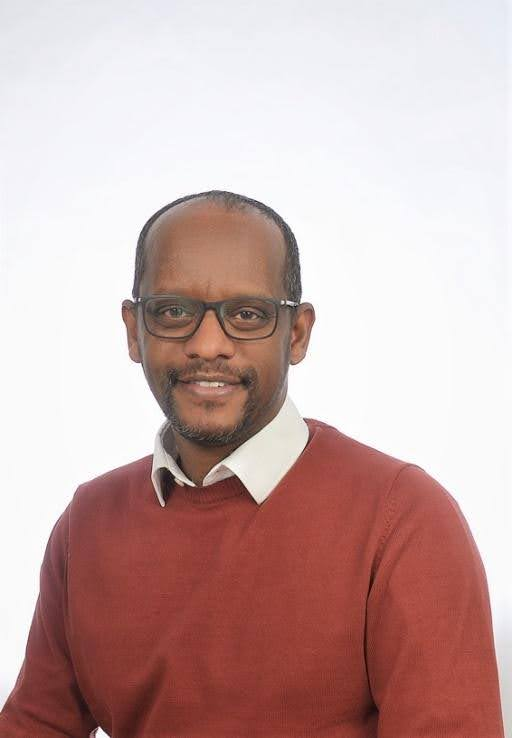
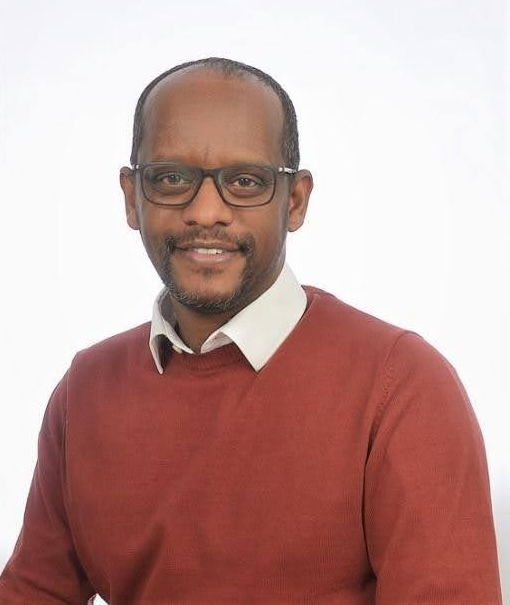
ammends

diff --git a/about.html b/about.html
@@ -301,7 +301,7 @@
 
                   <div class="team_description text-center">
                     <h4 class="team_name">
-                      Rose Gana Fomban Leke<br /><span
+                      Emeritus Professor Rose Gana Fomban Leke<br /><span
                         >Chair of the (MIM) Secretariat; Executive Director of
                         the Cameroon Coalition Against Malaria</span
                       >
@@ -325,7 +325,7 @@
 
                   <div class="team_description text-center">
                     <h4 class="team_name">
-                      Claude Mambo MUVUNYI<br /><span
+                      Prof. Claude Mambo MUVUNYI<br /><span
                         >Director General, RBC</span
                       >
                     </h4>
@@ -348,7 +348,7 @@
 
                   <div class="team_description text-center">
                     <h4 class="team_name">
-                      MBACHAM FON WILFRED
+                      HRH Prof. MBACHAM FON WILFRED
                       <br /><span
                         >Executive Director of the MIM Society; Founder of the
                         Fobang Institutes for Innovations in Science and
@@ -367,14 +367,14 @@
               <div class="col-lg-3 mt-5">
                 <div class="carousel_item">
                   <img
-                    src="lib/images/photos/kateesa.jpg"
+                    src="lib/images/photos/brenda.jpeg"
                     alt="Team Picture"
                     class="team_pic"
                   />
 
                   <div class="team_description text-center">
                     <h4 class="team_name">
-                      Brenda Asiimwe Kateera
+                      Dr. Brenda Asiimwe Kateera
 
                       <br /><span
                         >Country Director for Clinton Health Access Initiative
@@ -400,7 +400,7 @@
 
                   <div class="team_description text-center">
                     <h4 class="team_name">
-                      Eric Remera
+                      Dr. Eric Remera
 
                       <br /><span
                         >Head of Research Innovation and Data Science, Rwanda
@@ -426,7 +426,7 @@
 
                   <div class="team_description text-center">
                     <h4 class="team_name">
-                      EVELYN ANSAH
+                      Prof. EVELYN ANSAH
 
                       <br /><span
                         >Director of the Centre for Malaria Research, University
@@ -445,14 +445,14 @@
               <div class="col-lg-3 mt-5">
                 <div class="carousel_item">
                   <img
-                    src="lib/images/photos/andrew.png"
+                    src="lib/images/photos/andre.jpeg"
                     alt="Team Picture"
                     class="team_pic"
                   />
 
                   <div class="team_description text-center">
                     <h4 class="team_name">
-                      André Tchouatieu
+                      Dr. André Tchouatieu
 
                       <br /><span
                         >Director of Access and Product Management at Medicines
@@ -471,14 +471,14 @@
               <div class="col-lg-3 mt-5">
                 <div class="carousel_item">
                   <img
-                    src="lib/images/photos/corine.jpg"
+                    src="lib/images/photos/corine.jpeg"
                     alt="Team Picture"
                     class="team_pic"
                   />
 
                   <div class="team_description text-center">
                     <h4 class="team_name">
-                      Corine Karema
+                      Dr. Corine Karema
 
                       <br /><span
                         >Co-Chair of the Pan-African Mosquito Control
@@ -504,7 +504,7 @@
 
                   <div class="team_description text-center">
                     <h4 class="team_name">
-                      Abdisalan Mohamed Noor
+                      Prof. Abdisalan Mohamed Noor
 
                       <br /><span
                         >Visiting Professor of Immunology and Infectious
@@ -530,7 +530,7 @@
 
                   <div class="team_description text-center">
                     <h4 class="team_name">
-                      Aimable MBITUYUMUREMYI
+                      Dr. Aimable MBITUYUMUREMYI
 
                       <br /><span
                         >Head of the National Malaria, Other Parasitic Diseases,
@@ -557,7 +557,7 @@
 
                   <div class="team_description text-center">
                     <h4 class="team_name">
-                      Leon Mutesa
+                      Prof. Leon Mutesa
 
                       <br /><span
                         >Professor of Human Genetics, Director of Center for
@@ -661,7 +661,7 @@
         <div class="modal-content">
           <div class="modal-header">
             <h5 class="modal-title" id="exampleModalLabel">
-              Rose Gana Fomban Leke
+              Emeritus Professor Rose Gana Fomban Leke
             </h5>
             <button
               type="button"

diff --git a/abstract.html b/abstract.html
@@ -119,6 +119,21 @@
           <div class="container my-5">
             <div class="row">
               <div class="col-lg-12 my-5">
+                <h3 class="font-weight-bold">Abstract Submission</h3>
+                <p>
+                  Abstract & Symposium submission for the Multilateral
+                  Initiative on Malaria (MIM Society) 8th Pan-African Malaria
+                  Conference is now closed. The conference will accept
+                  late-breaking abstract submissions from <b>1-15 March 2024</b>.
+                </p>
+                <div class="my-4">
+                  <a
+                    href="https://www.alpoconsulting.com/"
+                    class="price_button price_blue text-decoration-none"
+                    target="_blank"
+                    >Submit Abstract</a
+                  >
+                </div>
                 <h3 class="font-weight-bold">
                   Abstract & Symposium Submission Guidelines
                 </h3>
@@ -387,9 +402,12 @@
                   >
                 </p>
               </div>
-              <div class="col-lg-12">
+              <div class="col-lg-12 mb-3">
                 <div class="text-center">
-                  <a href="https://www.alpoconsulting.com/" class="button_white text-center" target="_blank"
+                  <a
+                    href="https://www.alpoconsulting.com/"
+                    class="price_button price_blue"
+                    target="_blank"
                     >Submit Abstract</a
                   >
                 </div>

diff --git a/index.html b/index.html
@@ -226,7 +226,7 @@
                 </p>
                 <p class="text-center">
                   For submission guidelines
-                  <a href="abstract.html" class="click-here" target="_blank"
+                  <a href="abstract.html" class="click-here"
                     >Click Here</a
                   >
                 </p>

diff --git a/lib/css/style.css b/lib/css/style.css
@@ -2603,6 +2603,7 @@ a.contact_details {
   height: 280px;
   width: 100%;
   object-fit: cover;
+  object-position: top;
 }
 
 .team_description {
